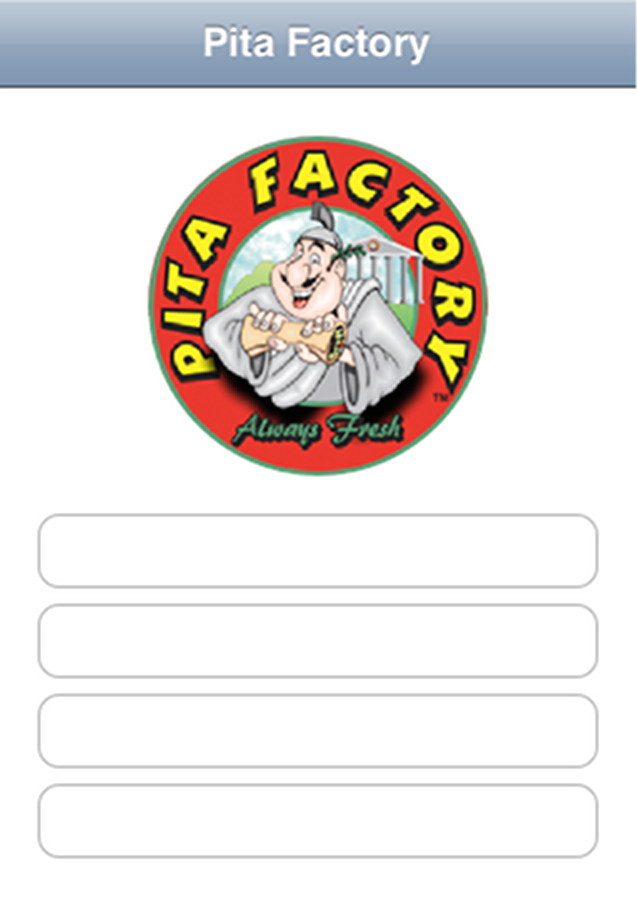
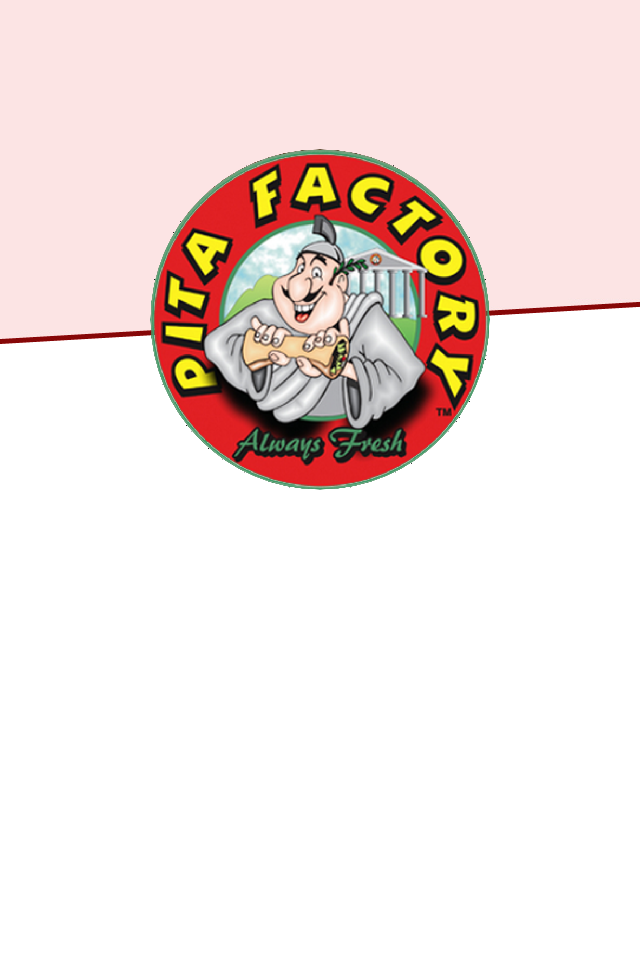
adds a real splash page

diff --git a/MasterViewController.m b/MasterViewController.m
@@ -31,6 +31,7 @@
         [[NSNotificationCenter defaultCenter] addObserver:self selector:@selector(initializationSuccess) name:INITIALIZED_SUCCESS object:appData];
         [[NSNotificationCenter defaultCenter] addObserver:self selector:@selector(initializationFailure) name:INITIALIZED_FAILURE object:appData];
         appData = [appData init];
+        [[[masterView loadingView] progressLabel] setText:@"Contacting Server..."];
     }
     return self;
 }
@@ -83,6 +84,7 @@
 
 -(void) initializationSuccess
 {
+    [[[masterView loadingView] progressLabel] setText:@"Initialization Complete"];
     LocationTabViewController *locationTabViewController = [[LocationTabViewController alloc] initWithLocationState:[appData locationState]];
     
     [locationTabViewController setTitle:@"Location"];
@@ -107,6 +109,7 @@
 
 -(void) initializationFailure
 {
+    [[[masterView loadingView] progressLabel] setText:@"No connectivity detected"];
     UIAlertView *alert = [[UIAlertView alloc] initWithTitle:@"Oops" message:@"You must have an internet connection the first time you run this app" delegate:self cancelButtonTitle:@"Okay" otherButtonTitles: nil];
     [masterView dissolveProgressIndicator];
     [alert show];

diff --git a/LoadingView.m b/LoadingView.m
@@ -10,6 +10,7 @@
 
 @implementation LoadingView
 
+@synthesize progressLabel;
 @synthesize indicatorView;
 
 - (id)initWithFrame:(CGRect)frame
@@ -17,14 +18,14 @@
     self = [super initWithFrame:frame];
     if (self) {
         splashImage = [[UIImageView alloc] initWithImage:[UIImage imageNamed:@"splashScreen.jpg"]];
-        indicatorView = [[UIActivityIndicatorView alloc] initWithActivityIndicatorStyle:UIActivityIndicatorViewStyleWhiteLarge];
+        indicatorView = [[UIActivityIndicatorView alloc] initWithActivityIndicatorStyle:UIActivityIndicatorViewStyleGray];
         [indicatorView startAnimating];
         progressLabel = [[UILabel alloc] init];
         [progressLabel setBackgroundColor:[UIColor clearColor]];
         [progressLabel setTextAlignment:UITextAlignmentCenter];
         [progressLabel setAdjustsFontSizeToFitWidth:YES];
-        [progressLabel setTextColor:[UIColor whiteColor]];
-        [progressLabel setText:@"There would be some loading text here"];
+        [progressLabel setTextColor:[UIColor blackColor]];
+        [progressLabel setText:@"Initializing..."];
         
         [self addSubview:splashImage];
         [self addSubview:indicatorView];

diff --git a/MasterView.h b/MasterView.h
@@ -17,6 +17,7 @@
     UIView *tabView;
 }
 
+@property (retain) LoadingView *loadingView;
 @property (retain) CustomTabBarController *tabController;
 
 -(void)dissolveLoadingView;

diff --git a/LoadingView.h b/LoadingView.h
@@ -15,6 +15,7 @@
     UILabel *progressLabel;
 }
 
+@property (retain) UILabel *progressLabel;
 @property (retain) UIActivityIndicatorView *indicatorView;
 
 @end

diff --git a/MasterView.m b/MasterView.m
@@ -13,6 +13,7 @@
 
 @implementation MasterView
 
+@synthesize loadingView;
 @synthesize tabController;
 
 - (id)initWithFrame:(CGRect)frame
